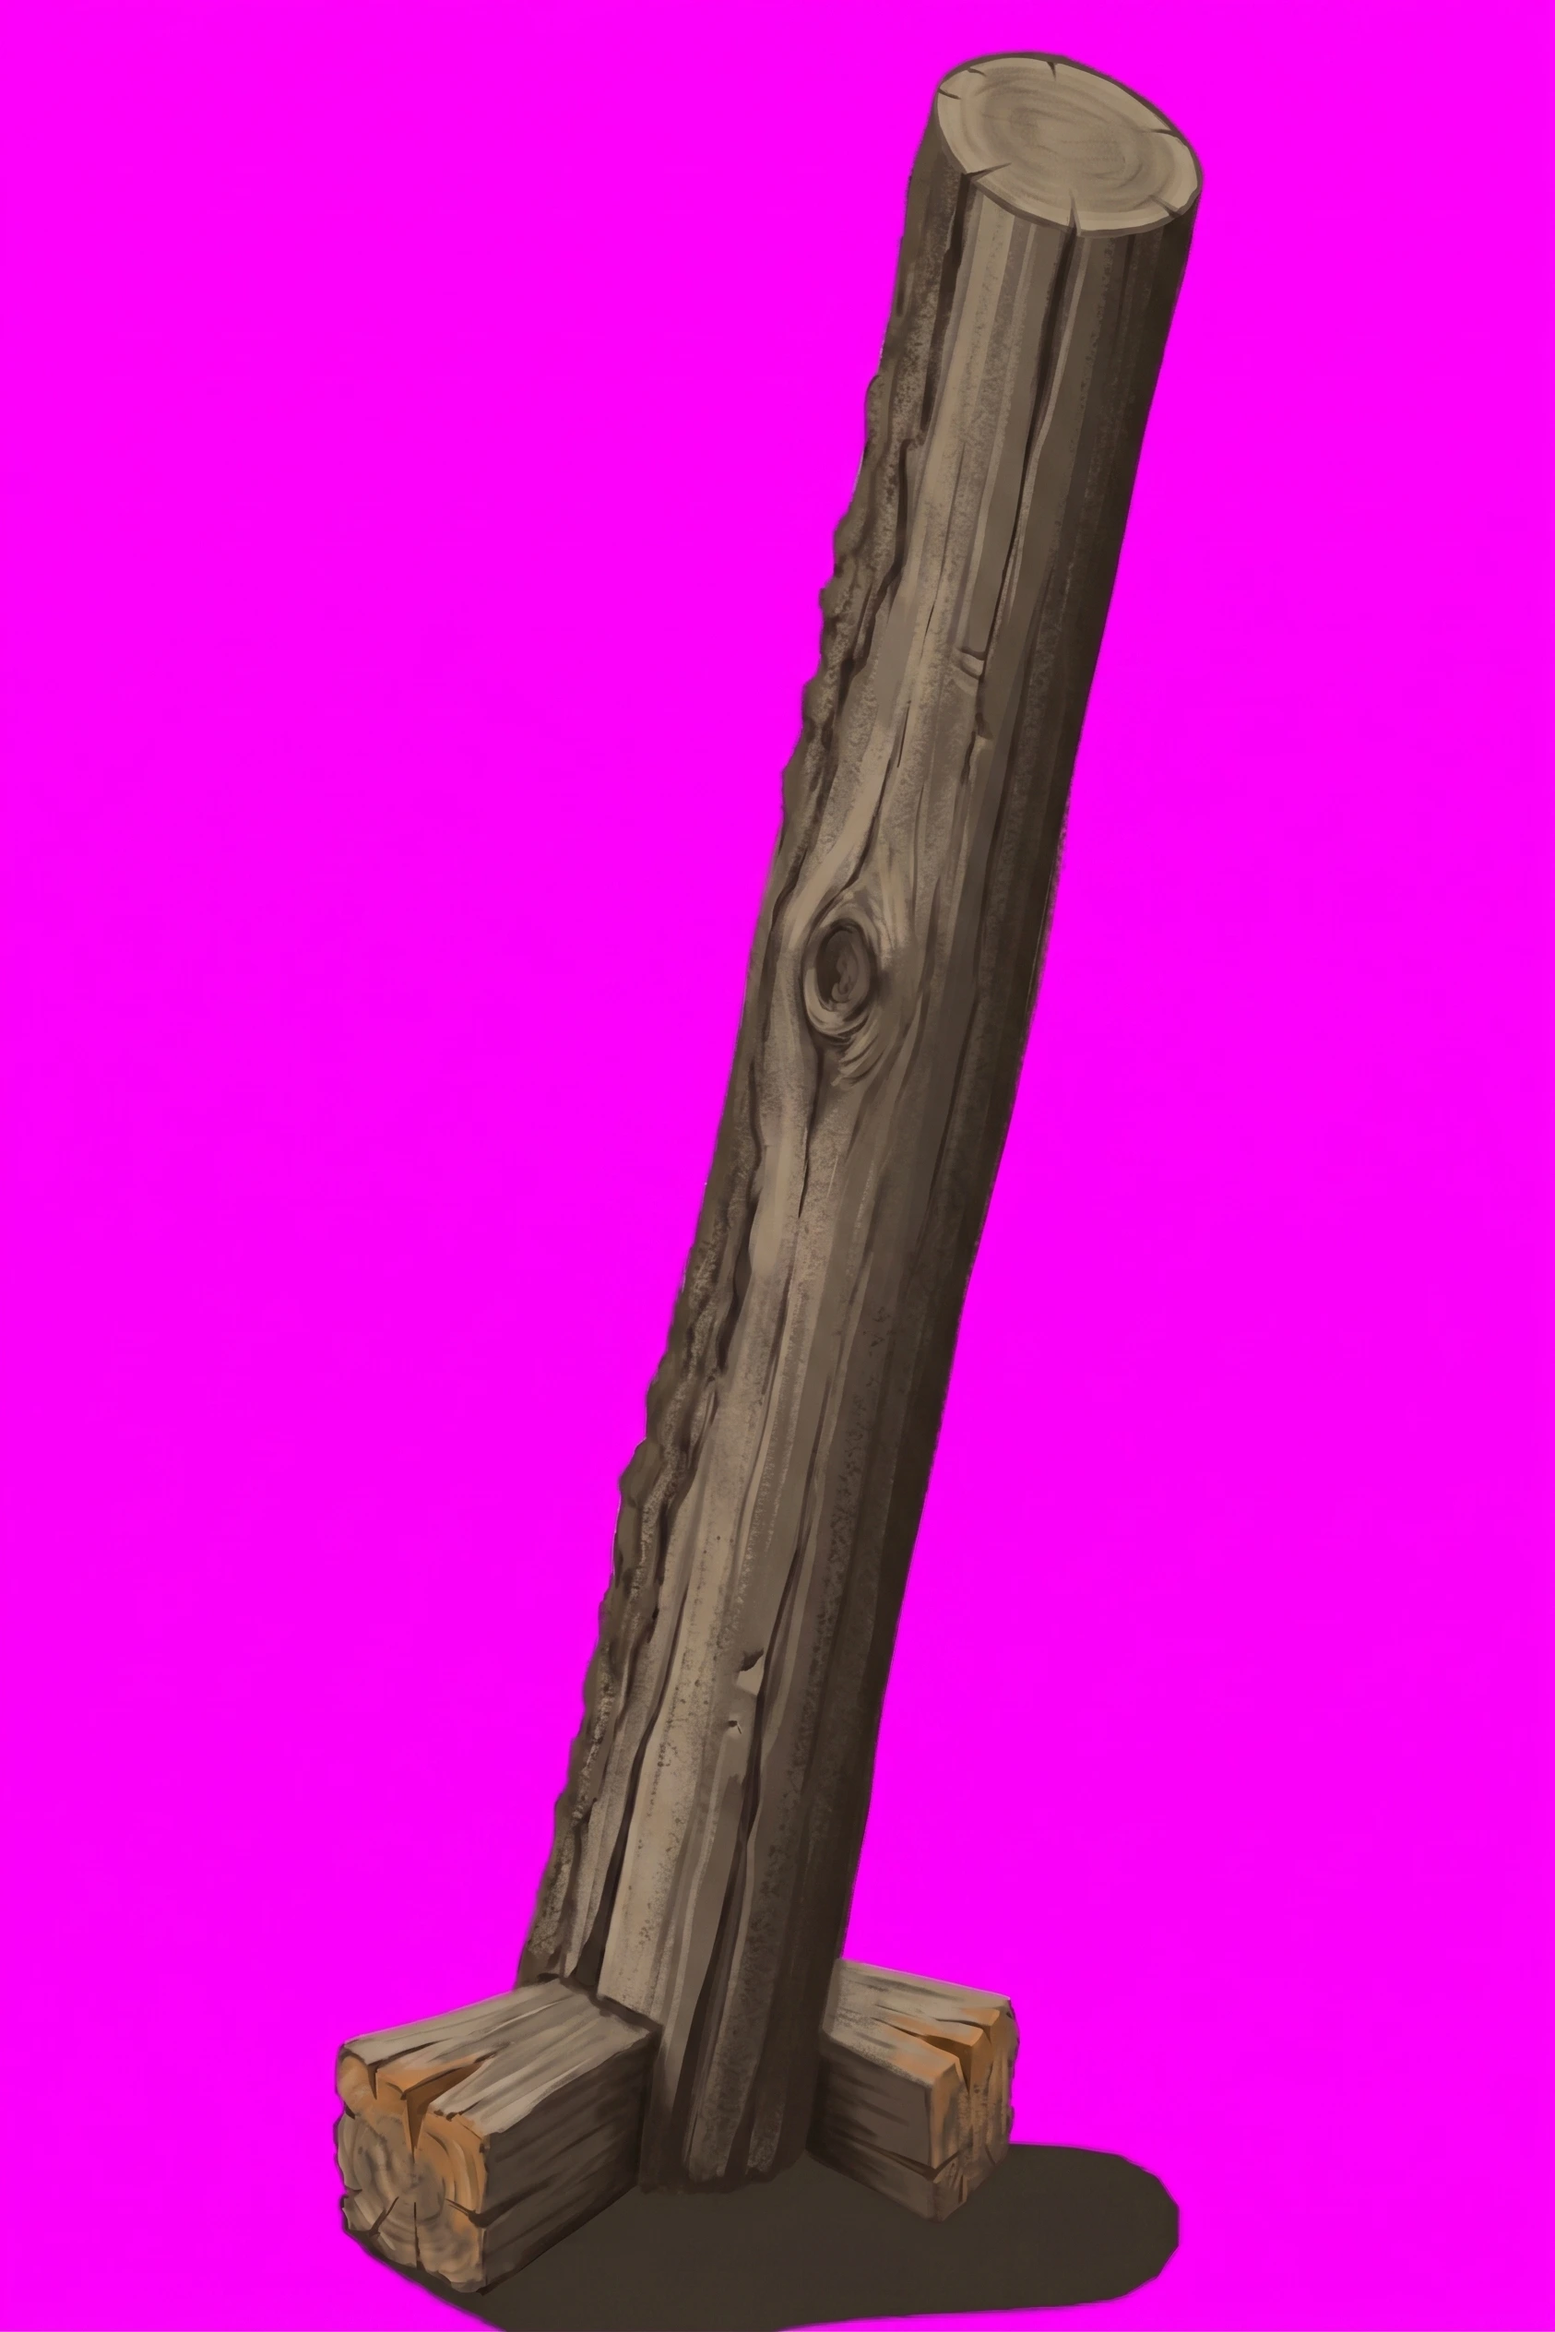
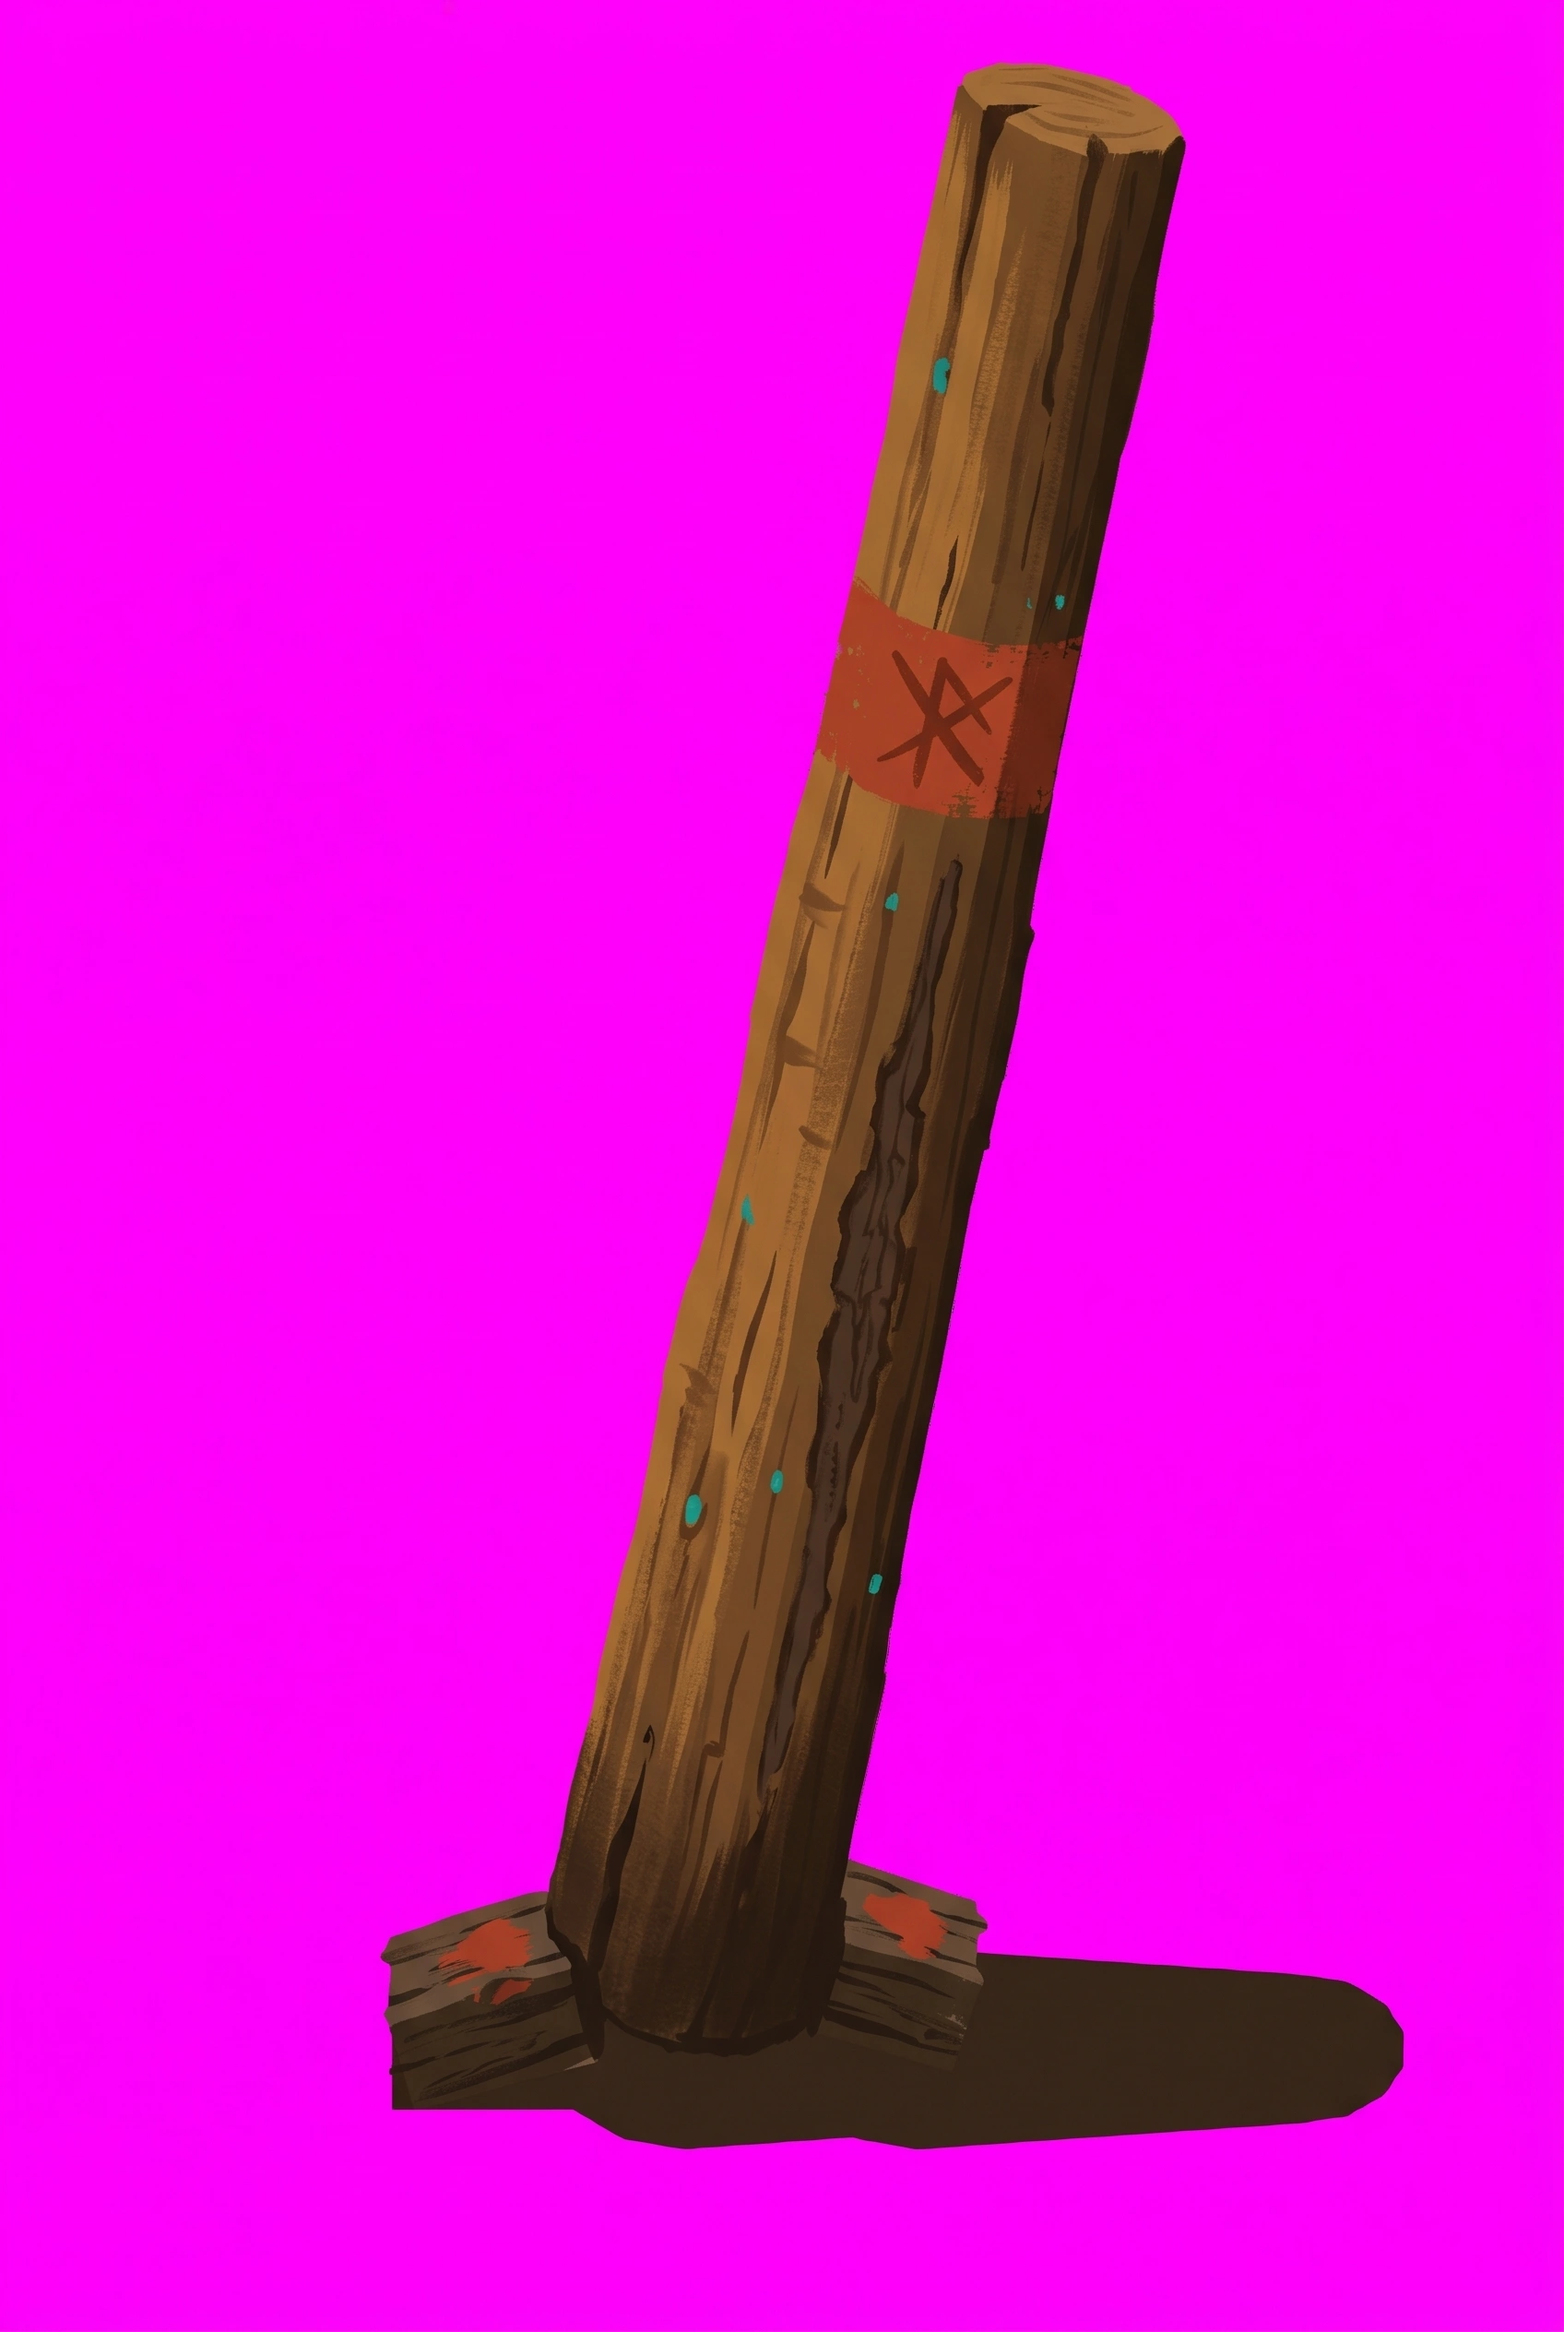
feat: starter's timber prop repainted, a red ochre band and wedges
Claude-Session: https://claude.ai/code/session_01NQk9Q1WZoZfDzoRioyXby1

Changed region(s): [[0.2159, 0.0, 0.8944, 1.0]]

diff --git a/docs/instructions/repaint-queue.md b/docs/instructions/repaint-queue.md
@@ -193,64 +193,6 @@ the shabti is `--mesh=art/masters/meshes/shabti.glb`. `starter-plain.png` is the
 `art/masters/surfaces/starter-floor.webp` scaled to 1024, the crop every `<tier>-plain.png` is. The
 tally board has no scaffold: it attaches its own master.
 
-### `starter/pillar` — a leaning timber prop, red ochre on its wedges
-
-**Attach:**
-
-1. `~/tile-previews/pillar-starter.png` — the scaffold
-2. `~/tile-previews/starter-plain.png` — the material reference
-
-```
-A wall-less product shot of a single object, painted in flat matte gouache, no background, on pure magenta #FF00FF. Portrait, two units wide by three tall, exactly as the reference. Do not re-compose it into a square. Paint over the reference image itself.
-
-The object: a rough timber PROP leaning a little, holding up a roof that is out of the frame. The tall
-trunk is the POST; the two chunky blocks at its foot are WEDGES hammered in under it.
-
-The post is a rough-hewn trunk, dark honey-brown #9a6a3c on its lit side going to #5e3a1e on its shadowed
-side, adze marks along the grain, bark left in a strip. Never grey, never weathered silver. A band of red
-ochre #b8452c is painted round it at shoulder height with a merchant's mark, and it is darkest #3a2a1c at
-the foot. The wedges are dark timber with a dab of red ochre on each.
-
-IT STANDS ON A PALE FLOOR AND MUST READ DARK ON IT. The floor is pale limestone, #d8c8a8. The object as a
-whole is clearly DARKER and more colourful than that: nothing on it larger than a fingertip is lighter
-than terracotta #c0612f, and only the turquoise #2a9d8f may be, in small touches. Its base, its underside
-and every part nearest the floor are its darkest, deep umber #3a2a1c. Nothing on it is white, cream,
-bleached, pale straw or whitewash — a pale part vanishes into the floor.
-
-Keep every edge, every proportion and every silhouette exactly as in the reference image — do not move, resize, straighten, add, remove or restyle any part of it, and do not change the angle it stands at. Paint only material and wear.
-
-The shadow at its foot is part of the picture: paint it #3A2A1C, with no pink and no purple in it at all.
-
-No highlights, no gloss, no rim light, no ground plane, no reflections. Matte throughout, as if lit by one dull lamp. Merchant's storehouse: fired terracotta #c0612f and #7e3a1a, honey-brown timber #9a6a3c and #5e3a1e, red ochre paint #b8452c, turquoise faience #2a9d8f. Saturated and warm — colour that reads from across the room — and never as pale as the floor it stands on.
-```
-
-Then, once the return is in `~/Downloads`:
-
-```sh
-scaffold pillar
-yarn import-tile art/masters/props/starter/pillar.webp --tier=starter --name=pillar --slot=prop \
-  --filter=smooth --mask="$OBJ" --seat="$SHADOW"
-```
-
----
-
-## Merchant props — six new, the activities
-
-The storehouse's activity props ([themed-rooms.md](../game-design/themed-rooms.md) §1): **weighing**
-(scale, weightsTable — the tally board is its wall item), **packing** (basketStack, bales), **selling**
-(counter) and the **ledger** (scribeDesk). New kinds, so each has a fresh primitive in `renderProp.py`
-and no landed tile to compare with. Same light-rank rule and same palette as the fifteen above, and the
-same render: timber `#9a6a3c` on magenta over the pale floor's footprint, with cloth dyed `#8a4a2c`
-(`--colour-cloth`) because the default linen is paler than the floor allows. Every one stands against
-the north wall and is SHALLOW — 0.40 deep at most — so its spin stays in Step 1b's 0–8 band; the balance
-is square on.
-
-**They enter the decorations pools when they land**, not before: `themed-rooms.md` shows an activity
-only where its props are painted. The import flags are first guesses with no correction in them —
-`yarn repaint <key> --land` runs `tile-stats`, and its numbers decide `--brightness` and
-`--saturation`. Each scaffold is the `scaffold` line of its block rendered once with its shadow, e.g.
-`yarn render-prop --primitive=scale --colour=#9a6a3c --floor=#d8c8a8 --out=$HOME/tile-previews/scale-starter.png`.
-
 ### `starter/scale` — a balance scale on its post, a weight in one pan and grain in the other
 
 **Attach:**
